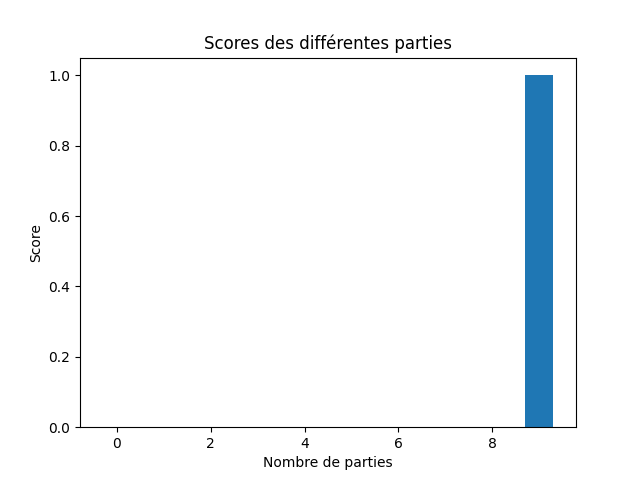
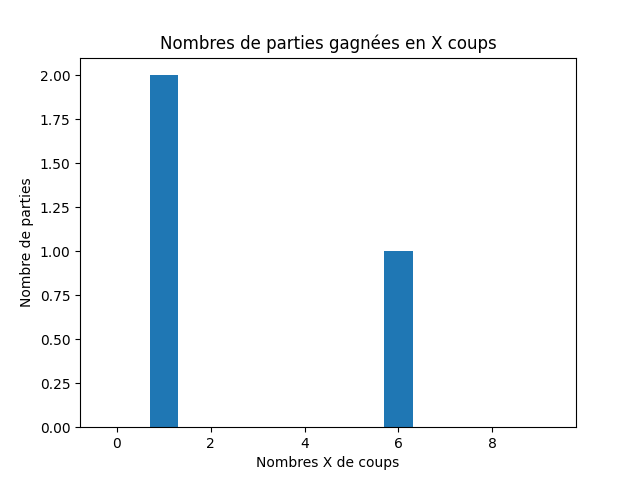
correction bug stat

diff --git a/web/fonctions_stat.py b/web/fonctions_stat.py
@@ -41,7 +41,7 @@ def trace_histo(user,mdj):              #ET CALCULE MOYENNE
         moyenne=moyenne+u
     if len(x)!=0:
         moyenne=str(moyenne/len(x))
-    if len(x)>=4:
+    if len(moyenne)>=4:
         moyenne=moyenne[:3]
     
     if x==[]:
@@ -53,12 +53,12 @@ def trace_histo(user,mdj):              #ET CALCULE MOYENNE
 
     plt.clf()
     plt.hist(x, range=(0, 10), bins=10, rwidth = 0.6, align='left')
-    plt.xlabel('Nombre de parties')
+    plt.ylabel('Nombre de parties')
     if mdj=="Classique":
-        plt.ylabel('Nombres X de coups')
+        plt.xlabel('Nombres X de coups')
         plt.title("Nombres de parties gagnées en X coups")
     else:
-        plt.ylabel('Score')
+        plt.xlabel('Score')
         plt.title("Scores des différentes parties")
     plt.savefig('static/image.png',transparent=True)
     return(moyenne,meilleur_classique,meilleur_score,nb_partie)

diff --git a/web/app.py b/web/app.py
@@ -427,7 +427,7 @@ def stat():
     #Tracer histogramme
     moyenne,meilleur,inutile,inutile=trace_histo(user,"Classique")
     histo_histo(user,"Classique")
-
+    print(moyenne)
     return render_template("statistiques.html", liste=[nb_parties,nb_vict,taux_vict,xp,moyenne,meilleur])
 
 
